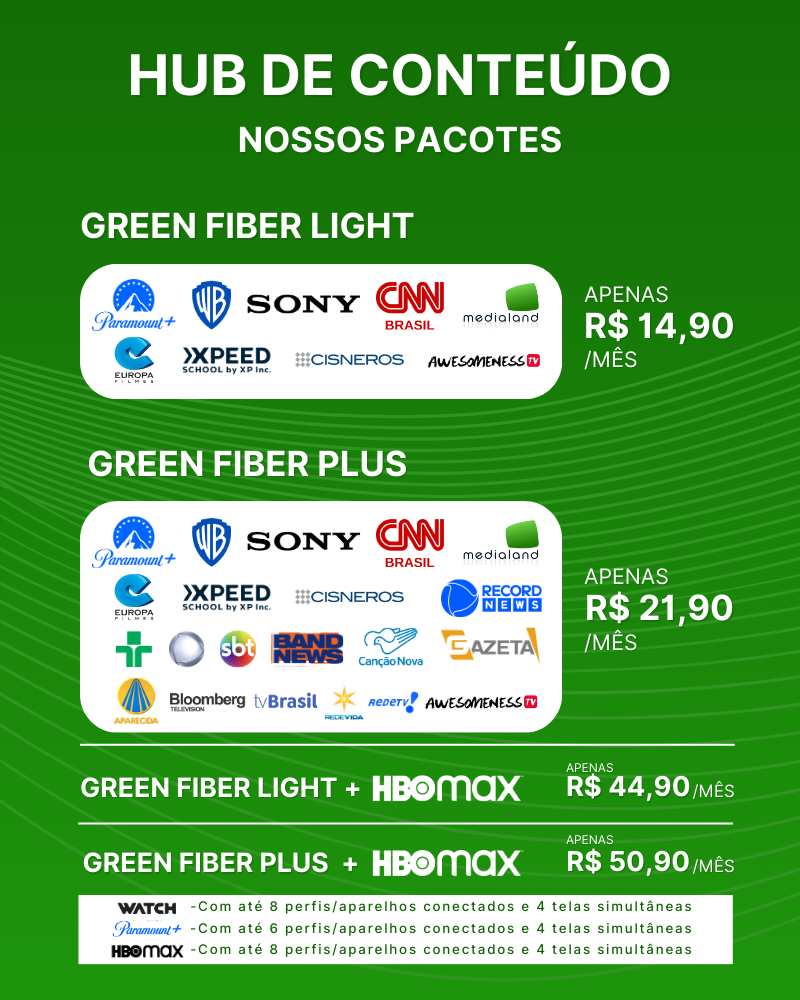
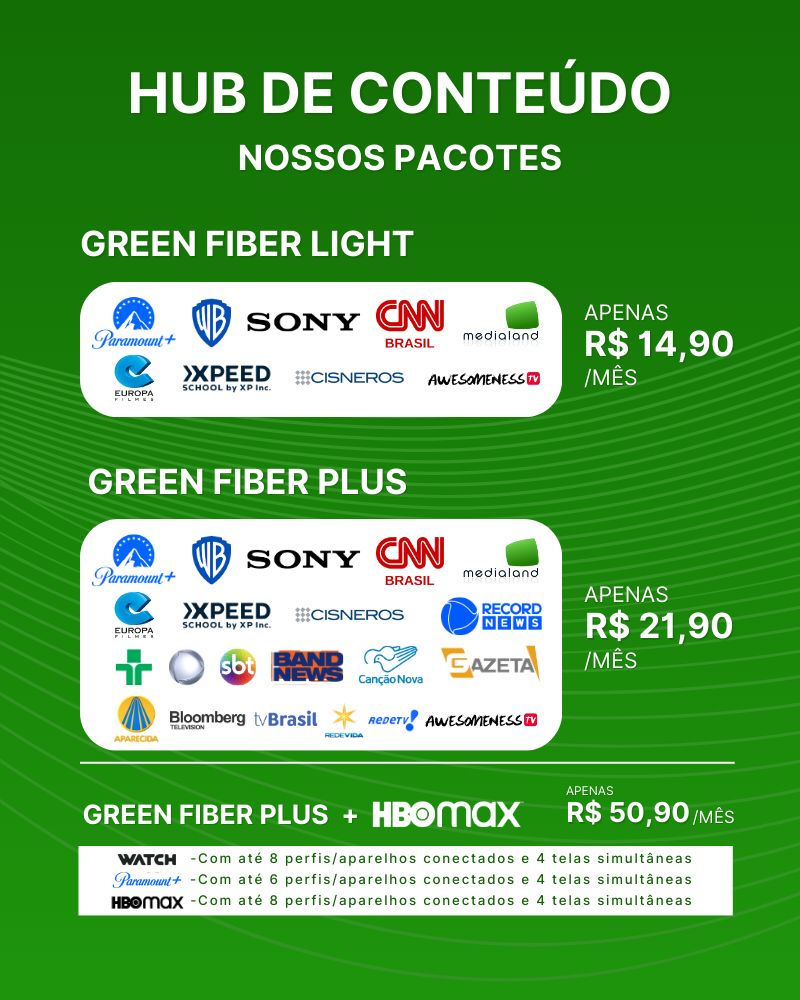
500 e 600 pronto. 800 preparado

Changed region(s): [[0.0938, 0.031, 0.9375, 0.992], [0.7188, 0.558, 0.9375, 0.682]]

diff --git a/planos.html b/planos.html
@@ -34,6 +34,7 @@
     
     </div>
     <dialog class="h-[500px] md:h-[1000px] rounded-lg shadow-lg"> <button id="close" class="absolute right-3 top-3 md:right-6 md:top-6 outline-0 w-8 h-8 rounded-xl bg-white hover:bg-gray-200"><span class="font-bold text-green-800">X</span></button> <img class="h-full w-full" src="/img/conteudo.png" alt=""></dialog>
+    <dialog class="modal600 h-[500px] md:h-[1000px] rounded-lg shadow-lg"> <button id="close600" class="absolute right-3 top-3 md:right-6 md:top-6 outline-0 w-8 h-8 rounded-xl bg-white hover:bg-gray-200"><span class="font-bold text-green-800">X</span></button> <img class="h-full w-full" src="/img/conteudo600800.png" alt=""></dialog>
     <div class="flex flex-col items-center bg-gray-50 p-4">
         <div class="mb-2 mt-12 text-center ">
             <h1 class="mb-4 text-5xl font-black text-gray-900">ESCOLHA UM PLANO</h1>
@@ -66,7 +67,6 @@
                         <ul class="hidden options500 relative p-3 text-xs mt-[10px] rounded-md bg-white shadow-md">
                             <li class="option500 flex p-2 hover:bg-gray-200 cursor-pointer rounded-md"><span class="option-txt">GreenFiber TV Light (+R$14,90)</span></li>
                             <li class="option500 flex p-2 hover:bg-gray-200 cursor-pointer rounded-md"><span class="option-txt">GreenFiber TV Plus (+R$21,90)</span></li>
-                            <li class="option500 flex p-2 hover:bg-gray-200 cursor-pointer rounded-md"><span class="option-txt">GreenFiber TV Light + HBOMax (+R$44,90)</span></li>
                             <li class="option500 flex p-2 hover:bg-gray-200 cursor-pointer rounded-md"><span class="option-txt">GreenFiber TV Plus + HBOMax (+R$50,90)</span></li>
                             <li class="option500 flex p-2 hover:bg-gray-200 cursor-pointer rounded-md"><span class="option-txt">Não tenho interesse</span></li>
                         </ul>
@@ -91,7 +91,7 @@
                     <h2 class="text-xl w-full text-center font-black text-green-800 w-[50%]">GRÁTIS</h2>
                 </div>
                 <h3 class="text-[11px] w-full text-center pt-4">SEM FIDELIDADE | SEM TAXA DE INSTALAÇÃO</h3>
-                <h3 class="text-sm w-full text-center font-black text-green-800 pt-4 items-center tracking-[.01em]">Deseja assinar a GreenFiber TV? <a id="modalBtn" class="bg-green-700 text-white px-1 py-0 rounded-full text-xs cursor-pointer">?</a></h3>
+                <h3 class="text-sm w-full text-center font-black text-green-800 pt-4 items-center tracking-[.01em]">Deseja assinar a GreenFiber TV? <a id="modalBtn600" class="bg-green-700 text-white px-1 py-0 rounded-full text-xs cursor-pointer">?</a></h3>
                 
                 <div class="flex items-center w-[252px] pt-2">
                     <div class="select-menu600">
@@ -102,8 +102,7 @@
                         <ul class="hidden options600 relative p-3 text-xs mt-[10px] rounded-md bg-white shadow-md">
                             <li class="option600 flex p-2 hover:bg-gray-200 cursor-pointer rounded-md"><span class="option-txt">GreenFiber TV Light (+R$10,00)</span></li>
                             <li class="option600 flex p-2 hover:bg-gray-200 cursor-pointer rounded-md"><span class="option-txt">GreenFiber TV Plus (+R$16,00)</span></li>
-                            <li class="option600 flex p-2 hover:bg-gray-200 cursor-pointer rounded-md"><span class="option-txt">GreenFiber TV Light + HBOMax (+R$44,90)</span></li>
-                            <li class="option600 flex p-2 hover:bg-gray-200 cursor-pointer rounded-md"><span class="option-txt">GreenFiber TV Plus + HBOMax (+R$50,90)</span></li>
+                            <li class="option600 flex p-2 hover:bg-gray-200 cursor-pointer rounded-md"><span class="option-txt">GreenFiber TV Plus + HBOMax (+R$46,00)</span></li>
                             <li class="option600 flex p-2 hover:bg-gray-200 cursor-pointer rounded-md"><span class="option-txt">Não tenho interesse</span></li>
                         </ul>
                     </div>

diff --git a/scripts.js b/scripts.js
@@ -1,3 +1,5 @@
+
+//500
 const selectMenu500 = document.querySelector('.select-menu500'),
         selectBtn500 = selectMenu500.querySelector('.select-btn500'),
         options500 = selectMenu500.querySelectorAll('.option500'),
@@ -25,11 +27,6 @@ options500.forEach(option => {
             case 'GreenFiber TV Plus (+R$21,90)':
                 price500.innerText = `R$ ${(+99.99 + +21.90).toFixed(2).toString().replace('.',',')}`
                 assinar500.href = "https://api.whatsapp.com/send/?phone=5521998629274&text=Ol%C3%A1!%20Tenho%20interesse%20em%20contratar%20o%20Combo%20500%20MEGA%20%2B%20%20%20GreenFiber%20TV%20Plus!"
-                break
-
-            case 'GreenFiber TV Light + HBOMax (+R$44,90)':
-                price500.innerText = `R$ ${(+99.99 + +44.90).toFixed(2).toString().replace('.',',')}`
-                assinar500.href = "https://api.whatsapp.com/send/?phone=5521998629274&text=Ol%C3%A1!%20Tenho%20interesse%20em%20contratar%20o%20Combo%20500%20MEGA%20%2B%20%20%20GreenFiber%20TV%20Light%20%20%2B%20HBO%20Max!"
                 break
 
             case 'GreenFiber TV Plus + HBOMax (+R$50,90)':
@@ -80,18 +77,13 @@ options600.forEach(option => {
                 assinar600.href = "https://api.whatsapp.com/send/?phone=5521998629274&text=Ol%C3%A1!%20Tenho%20interesse%20em%20contratar%20o%20Combo%20600%20MEGA%20%2B%20%20%20GreenFiber%20TV%20Plus!"
                 break
 
-            case 'GreenFiber TV Light + HBOMax (+R$44,90)':
-                price600.innerText = `R$ ${(+124.99 + +44.90).toFixed(2).toString().replace('.',',')}`
+            case 'GreenFiber TV Plus + HBOMax (+R$46,00)':
+                price600.innerText = `R$ ${(+124.99 + +46).toFixed(2).toString().replace('.',',')}`
                 assinar600.href = "https://api.whatsapp.com/send/?phone=5521998629274&text=Ol%C3%A1!%20Tenho%20interesse%20em%20contratar%20o%20Combo%20600%20MEGA%20%2B%20%20%20GreenFiber%20TV%20Light%20%20%2B%20HBO%20Max!"
                 break
 
-            case 'GreenFiber TV Plus + HBOMax (+R$50,90)':
-                price600.innerText = `R$ ${(+124.99 + +50.90).toFixed(2).toString().replace('.',',')}`
-                assinar600.href = "https://api.whatsapp.com/send/?phone=5521998629274&text=Ol%C3%A1!%20Tenho%20interesse%20em%20contratar%20o%20Combo%20600%20MEGA%20%2B%20%20%20GreenFiber%20TV%20Plus%20%20%2B%20HBO%20Max!"
-                break
-                
             default:
-                price600.innerText = `R$ 99,90`
+                price600.innerText = `R$ 124,99`
                 assinar600.href = "https://api.whatsapp.com/send/?phone=5521998629274&text=Ol%C3%A1!%20Tenho%20interesse%20em%20contratar%20o%20plano%20de%20600%20MEGA%20de%20internet%20com%20a%20Green%20Fiber!"
             break
         }
@@ -115,7 +107,7 @@ function onToggleMenu(e){
     navlinks.classList.toggle('-left-[100%]')
 }
 
-//modal
+//modal500
 const modalBtn = document.querySelector('#modalBtn')
 const modal = document.querySelector("dialog")
 const modalBtnClose = document.querySelector('#close')
@@ -126,4 +118,30 @@ modalBtn.onclick = function () {
 
 modalBtnClose.onclick = function () {
     modal.close()
+}
+
+//modal600
+const modalBtn600 = document.querySelector('#modalBtn600')
+const modal600 = document.querySelector(".modal600")
+const modalBtnClose600 = document.querySelector('#close600')
+
+modalBtn600.onclick = function () {
+    modal600.showModal()
+}
+
+modalBtnClose600.onclick = function () {
+    modal600.close()
+}
+
+//modal800
+const modalBtn800 = document.querySelector('#modalBtn800')
+const modal800 = document.querySelector(".modal800")
+const modalBtnClose800 = document.querySelector('#close800')
+
+modalBtn800.onclick = function () {
+    modal800.showModal()
+}
+
+modalBtnClose800.onclick = function () {
+    modal800.close()
 }
